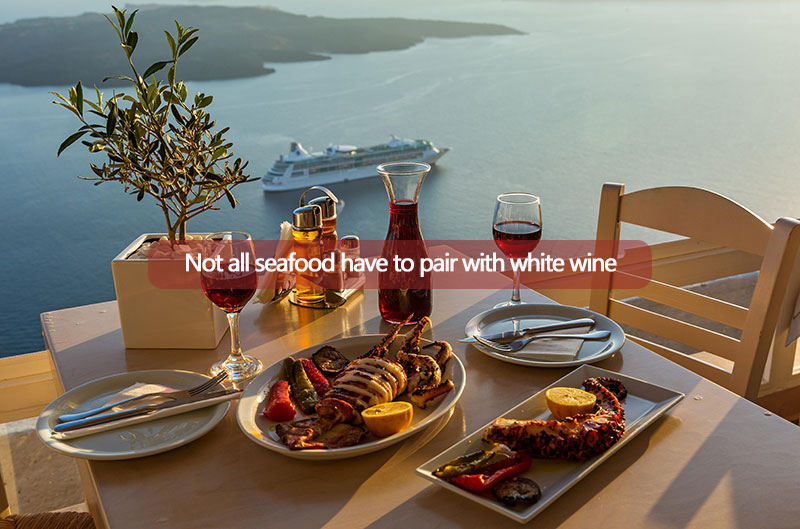
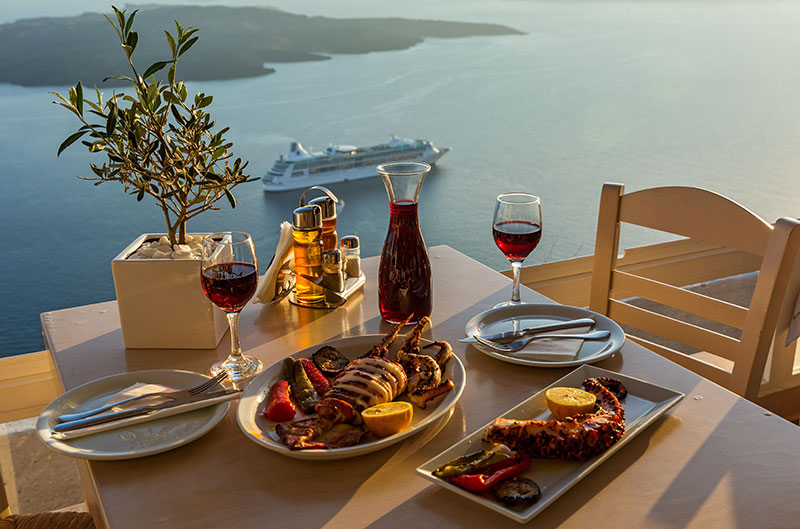
finished homepage with wine tips

Changed region(s): [[0.1875, 0.4537, 0.8125, 0.5444]]

diff --git a/templates/home.html b/templates/home.html
@@ -10,7 +10,7 @@
     
     body {
         color: rgb(65, 12, 13);
-        background-color: rgb(255,255,255);
+        background-color: rgb(255, 255, 255);
         /* light red background */
     }
     
@@ -94,29 +94,60 @@
     .box ul li:hover {
         width: 760px;
     }
-
+    
     .box ul li .text {
         position: absolute;
-        bottom: 10px;  /* Adjust as needed */
-        width: 100%;
+        bottom: 10px;/* Adjust as needed */
+        /* width: 100%; */
+        width: 756px;
         text-align: center;
-        color: rgb(221, 188, 160);  /* Make text color white or any contrasting color */
-        background-color: rgb(65, 12, 13);  /* Semi-transparent background for better visibility */
-        padding: 5px 0;  /* Add some padding */
-        z-index: 10;  /* Ensure text is above the image */
-    }
-    .box ul li .tip {
-        position: absolute;
-        top: 50%;  /* Center vertically */
-        left: 50%;  /* Center horizontally */
-        transform: translate(-50%, -50%);  /* Align center of the div to the center of the li */
-        color: rgb(221, 188, 160);  /* Text color */
-        background-color: rgb(65, 12, 13);  /* Darker background for the tip for visibility */
-        padding: 10px 20px;  /* Padding around the text */
-        border-radius: 10px;  /* Optional: rounded corners */
-        z-index: 5;  /* Lower than the hover text to maintain layer order */
+        color: rgb(221, 188, 160);/* Make text color white or any contrasting color */
+        background-color: rgb(65, 12, 13);/* Semi-transparent background for better visibility */
+        padding: 5px 0;/* Add some padding */
+        z-index: 10;/* Ensure text is above the image */
     }
     
+    .box ul li .tip {
+        position: absolute;
+        top: 50%;/* Center vertically */
+        left: 50%;/* Center horizontally */
+        transform: translate(-50%, -50%);/* Align center of the div to the center of the li */
+        color: rgb(221, 188, 160);/* Text color */
+        background-color: rgb(65, 12, 13);/* Darker background for the tip for visibility */
+        padding: 10px 20px;/* Padding around the text */
+        border-radius: 10px;/* Optional: rounded corners */
+        z-index: 5;/* Lower than the hover text to maintain layer order */
+    }
+    
+    .start {
+        position: relative;
+    }
+    
+    .text {
+        width: 756px;
+    }
+    
+    .text_1 {
+        color: rgb(255, 255, 255); /*font color*/
+        font-size: larger;
+        position: absolute;
+        top: 43%;
+        left: 10%;
+        width: 600px;
+        border-radius: 10px;
+        background-color: rgb(65, 12, 13);/*backgound*/
+        padding: 10px 20px;
+        text-align: center;
+        opacity: 0;
+        visibility: hidden;
+        transition: opacity 2s, visibility 0s 2s;
+    }
+    
+    .fa:hover .text_1 {
+        opacity: 1;
+        visibility: visible;
+        transition: opacity 2s;
+    }
     .start {
         position: relative;
     }
@@ -130,29 +161,49 @@
 <div class="box">
     <ul>
         <li>
-            <img src="static/pic/DessertWine.jpg" alt="red_wine_with_steak">
-            <div class="text">Red Wine</div>
+            <div style="position: relative;" class="fa">
+                <img src="static/pic/DessertWine.jpg" alt="red_wine_with_steak">
+                <div class="text_1">Rich desserts find their match in sweet, fortified wines like Ruby Port.</div>
+            </div>
+            <div class="text">Ruby Port</div>
         </li>
         <li>
-            <img src="static/pic/redwinebbq.jpg" alt="red_wine_with_steak">
-            <div class="text">Red Wine</div>
+            <div style="position: relative;" class="fa">
+                <img src="static/pic/redwinebbq.webp" alt="red_wine_with_steak">
+                <div class="text_1">Rosé isn't just for summer; it can elevate the flavors of barbecue dishes year-round.</div>
+            </div>
+            <div class="text">Rosé</div>
         </li>
         <li>
-            <img src="static/pic/appetizer_and_champagne.jpg" alt="red_wine_with_steak">
+            <div style="position: relative;" class="fa">
+                <img src="static/pic/appetizer_and_champagne.jpeg" alt="red_wine_with_steak">
+                <div class="text_1">When in doubt, Champagne can enhance almost any appetizer.</div>
+            </div>
             <div class="text">Champagne</div>
-            <!-- <div class="tip">Pair with light wines</div> -->
         </li>
         <li>
-            <img src="static/pic/image-1719.jpg" alt="red_wine_with_steak">
-            <div class="text">Red Wine</div>
+            <div style="position: relative;" class="fa">
+                <img src="static/pic/image-1719.webp" alt="red_wine_with_steak">
+                <div class="text_1">Bold red wines can stand up to hearty vegetarian dishes like mushroom risotto.</div>
+            </div>
+
+            <div class="text">Chianti</div>
         </li>
         <li>
-            <img src="static/pic/redwinesteak.jpg" alt="red_wine_with_steak">
-            <div class="text">Red Wine</div>
+            <div style="position: relative;" class="fa">
+                <img src="static/pic/redwinesteak.jpg" alt="red_wine_with_steak">
+                <div class="text_1">For a classic pairing, try Cabernet Sauvignon with a juicy steak.</div>
+            </div>
+
+            <div class="text">Cabernet Sauvignon</div>
         </li>
         <li>
-            <img src="static/pic/red-wine-with-fish.jpg" alt="red_wine_with_steak">
-            <div class="text">Red Wine</div>
+            <div style="position: relative;" class="fa">
+                <img src="static/pic/red-wine-with-fish.jpg" alt="red_wine_with_steak">
+                <div class="text_1">Not all seafood have to pair with white wine</div>
+            </div>
+
+            <div class="text">Pinot Noir</div>
         </li>
     </ul>
 </div>
